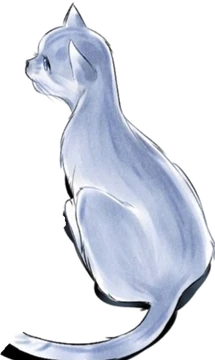
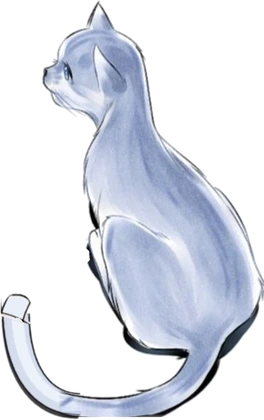
고양이 이미지 다시 만들기: 가장자리 부드럽게, 파란 고양이 꼬리 끝 복원, 움직임 부드럽게
Claude-Session: https://claude.ai/code/session_01KDHACgDMXLoVdesSLDZ4nM

diff --git a/index.html b/index.html
@@ -163,14 +163,14 @@ button:focus-visible{outline:2px solid var(--accent);outline-offset:2px}
 .lvlw{position:relative;margin-top:104px}
 .lvlw .lvl{position:relative;z-index:1;margin-bottom:0}
 .lvlw+.lvlw{margin-top:112px}
-.lcat{position:absolute;z-index:2;right:14px;bottom:calc(100% - 16px);height:124px;pointer-events:none;transform-origin:50% 100%;filter:drop-shadow(0 4px 6px rgba(0,0,0,.18))}
+.lcat{position:absolute;z-index:2;right:14px;bottom:calc(100% - 16px);height:124px;pointer-events:none;transform-origin:50% 100%;will-change:transform,opacity;filter:drop-shadow(0 3px 5px rgba(0,0,0,.14))}
 .lcat.blue{right:22px;height:128px}
-.lcat img{height:100%;width:auto;display:block}
-.lcat.brown img{animation:idleB 4.8s ease-in-out infinite;transform-origin:50% 100%}
-.lcat.blue img{animation:idleW 2.6s ease-in-out infinite;transform-origin:50% 100%}
+.lcat img{height:100%;width:auto;display:block;will-change:transform;image-rendering:auto;-webkit-backface-visibility:hidden;backface-visibility:hidden}
+.lcat.brown img{animation:idleB 4.8s cubic-bezier(.45,0,.55,1) infinite;transform-origin:50% 100%}
+.lcat.blue img{animation:idleW 3.4s cubic-bezier(.45,0,.55,1) infinite;transform-origin:50% 100%}
 @keyframes idleB{0%,100%{transform:scaleY(1)}50%{transform:scaleY(1.015)}}
-@keyframes idleW{0%,100%{transform:rotate(0) translateY(0)}25%{transform:rotate(-2deg) translateY(-2px)}50%{transform:rotate(0) translateY(0)}75%{transform:rotate(1.5deg) translateY(-1px)}}
-.intro .lcat{animation:stepOut .95s cubic-bezier(.2,.9,.3,1.2) both}
+@keyframes idleW{0%,100%{transform:rotate(0) translateY(0)}25%{transform:rotate(-1.6deg) translateY(-1.5px)}50%{transform:rotate(0) translateY(0)}75%{transform:rotate(1.2deg) translateY(-.8px)}}
+.intro .lcat{animation:stepOut 1.1s cubic-bezier(.22,1,.36,1) both}
 .intro .lcat.brown{animation-delay:.25s}
 .intro .lcat.blue{animation-delay:.75s}
 @keyframes stepOut{0%{transform:translateY(35%) scale(.55,.75);opacity:0}30%{opacity:1}60%{transform:translateY(-14%) scale(1.06,.94)}78%{transform:translateY(0) scale(.97,1.03)}100%{transform:translateY(0) scale(1)}}
@@ -325,7 +325,7 @@ function lsKeys(){ const out=[]; try{ for(let i=0;i<localStorage.length;i++){ co
 function lsSnapshot(){ const p={}; lsKeys().forEach(k=>{ try{ p[k]=localStorage.getItem(k); }catch(e){} }); return p; }
 function lsClear(){ lsKeys().forEach(k=>{ try{ localStorage.removeItem(k); }catch(e){} }); }
 let UNLOCK_ALL=false, GUEST=false;
-const APP_VERSION="10/28 발자국 배경";
+const APP_VERSION="10/28 고양이 부드럽게";
 const TEACHER_ID="viethaan9";
 /* ---------- data ---------- */
 // type: next(이어질 말) · act(이어서 할 행동) · same(내용과 같은 것) · main(중심 생각)
